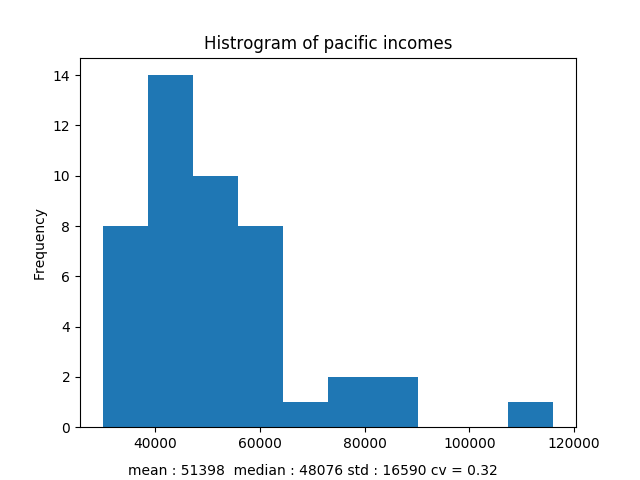
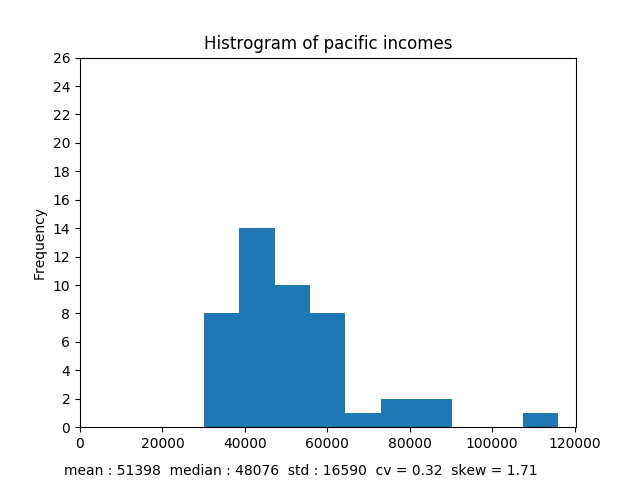
same scale for histograms

diff --git a/service/figure_generator.py b/service/figure_generator.py
@@ -41,10 +41,11 @@ class FigureGenerator():
             median = int(round(column.median(skipna=True)))
             std = int(round(column.std()))
             cv = round(std/mean, 2)
+            skew = round(column.skew(), 2)
             title = "Histrogram of {} incomes".format(label)
-            text = "mean : {}  median : {} std : {} cv = {}".format(mean, median, std, cv)
+            text = "mean : {}  median : {}  std : {}  cv = {}  skew = {}".format(mean, median, std, cv, skew)
             fname = "static/images/hist_{}".format(label)
-            column.plot(kind='hist', title=title)
-            plt.figtext(x=0.2, y=0.01, s=text)
+            column.plot(kind='hist', title=title, xticks=range(0,140000, 20000), yticks=range(0, 28, 2))
+            plt.figtext(x=0.1, y=0.01, s=text)
             plt.savefig(fname=fname)
             plt.close()
